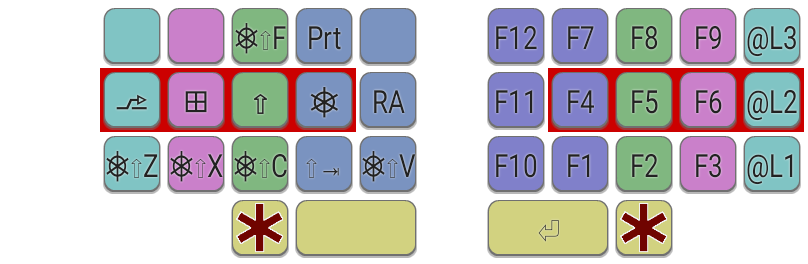
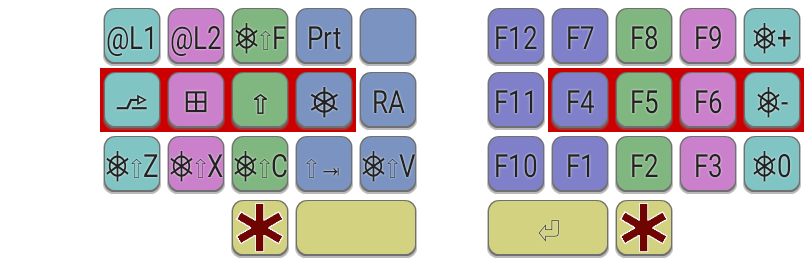
Add browser zoom controls to Function Layer

diff --git a/docs/index.html b/docs/index.html
@@ -132,7 +132,7 @@ function closeModalImage() {
 
 <ul>
   <li>Low travel distance by keeping fingers near their home positions; movements larger that 1 key-unit are avoided.</li>
-  <li>Well positioned thumb-keys are used to access layers - six layers are supported - with no need for dual-role keys.</li>
+  <li>Well positioned thumb-keys are used to access layers - six layers are supported - with no need for dual-role (mod-tap) keys.</li>
   <li>Sticky (one-shot) modifiers are used to fully support Ctrl, Alt, etc, without the need for dedicated keys. No more modifiers in awkward corners of the keyboard.</li>
   <li>Layer mappings designed to be intuitive and easy-to-learn.</li>
   <li>Easily adjustable and expandable to meet user requirements (e.g. to support multilingual typing).</li>
@@ -173,7 +173,7 @@ function closeModalImage() {
   <figcaption>The Seniply Function layer, activated by pressing two-thumb keys.</figcaption>
 </figure>
 
-<p>To accomodate the reduced number of keys, the function keys are mapped in a dedicated Function layer. The function keys are on the right-hand side, following a familiar Numpad-like convention for ease of learning. As with the Extend layer, home-row modifiers are available to combine with function keys. The function layer also provides a mechanism to switch between layouts (e.g. to switch to Qwerty for gaming) via the @L1, @L2, @L3 mappings. To access the function layer, the two outmost thumb-keys are held down. Alternatively, on keyboards with good support for multiple thumb keys, you may assign an unused thumb key for selecting this layer.</p>
+<p>To accommodate the reduced number of keys, the function keys are mapped in a dedicated Function layer. This is accessed by holding down the two outermost thumb-keys, or, on keyboards with support for additional thumb keys, you may prefer to use a spare single thumb key. The function keys are mapped on the right-hand side, following a familiar Numpad-like convention for ease of learning. Mappings are also provided for browser zoom controls (Ctrl-plus/minus). As with the Extend layer, home-row modifiers are available to combine with function keys. The function layer also provides a mechanism to switch between layouts (e.g. to switch to Qwerty for gaming) via the @L1 and @L2 mappings.</p>
 
 <p>Examples:<br/>
 (i) Output F11 using <code>Ext-Sym-m</code><br/>
@@ -241,7 +241,7 @@ function closeModalImage() {
 <p>The Symbols2 layer has the remaining standard symbols found on keyboards, including those normally output via shifted number keys. For easy recall, the symbols corresponding to Shift+1-7
 are assigned to match their number key in the Symbols1 layer. Noting that characters such as <code>* ( )</code> were assigned in the Symbols1 layer, the remaining vacant positions on the right-hand side are assigned to characters such as <code>`</code>, plus a selection of less common characters.</p> 
 
-<p>On the left-hand side, the Symbols2 layer provides media keys, together with volume and screen brightness functions. The remaining keys on the top row are currently occupied by additional symbols normally typed using AltGr, and may depend on your OS's language setting. These could be substituted according to user preference.</p>
+<p>On the left-hand side, the Symbols2 layer provides media keys, together with volume and screen brightness functions. The remaining keys on the top row are currently occupied by additional symbols normally typed using AltGr, and may depend on your OS's language setting. These could be substituted according to user preference. On keyboards with multiple thumb keys, you may prefer to assign the Symbols2 layer to a single key.</p>
 
 <p>Extra care is needed when assigning unicode characters to keys that are not usually defined in your operating system's keymap. For these to be printed correctly, the OS must translate a sequence of keycodes  to printable characters, for example using <a href="https://en.wikipedia.org/wiki/Compose_key">Compose</a>. In operating systems that don't support Compose natively, this feature can be provided by an external tool, such as <a href="https://github.com/samhocevar/wincompose">WinCompose</a> for Windows. One further note regarding symbols, it is possible to type any of the symbols that would normally be made available via the AltGr key, where configured. For example, if AltGr-a usually produces <code>æ</code> on your system, you can reproduce this with <code>Ext-G&nbsp;a</code>. Using this technique can substantially increase the number of symbols that are available for you to type using keys right under your fingertips!</p>
 
